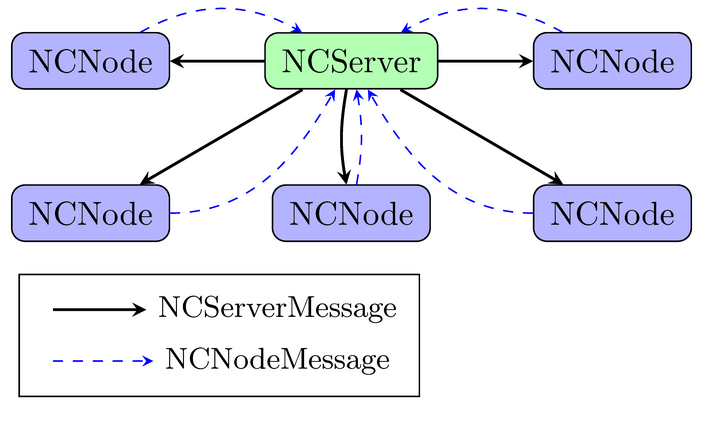
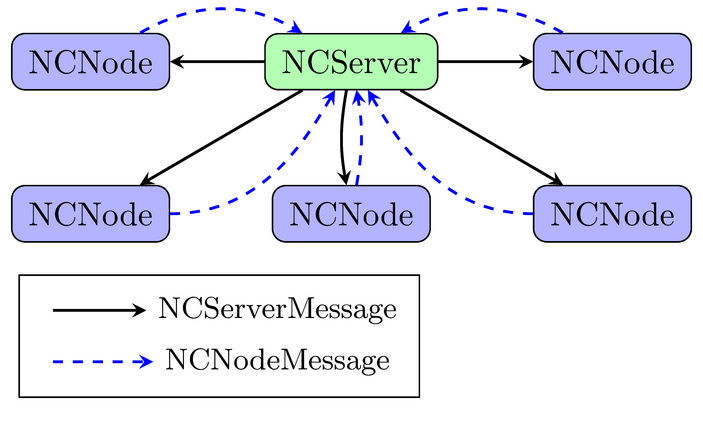
Make node message lines thicker

diff --git a/diagrams/00_overview.tex b/diagrams/00_overview.tex
@@ -8,7 +8,7 @@
 \tikzstyle{node} = [rectangle, rounded corners, text centered, draw=black, fill=blue!30, inner sep=5pt]
 
 \tikzstyle{server_message} = [thick, ->, >=stealth]
-\tikzstyle{node_message} = [blue, dashed, ->, >=stealth]
+\tikzstyle{node_message} = [thick, blue, dashed, ->, >=stealth]
 
 \begin{document}
 
